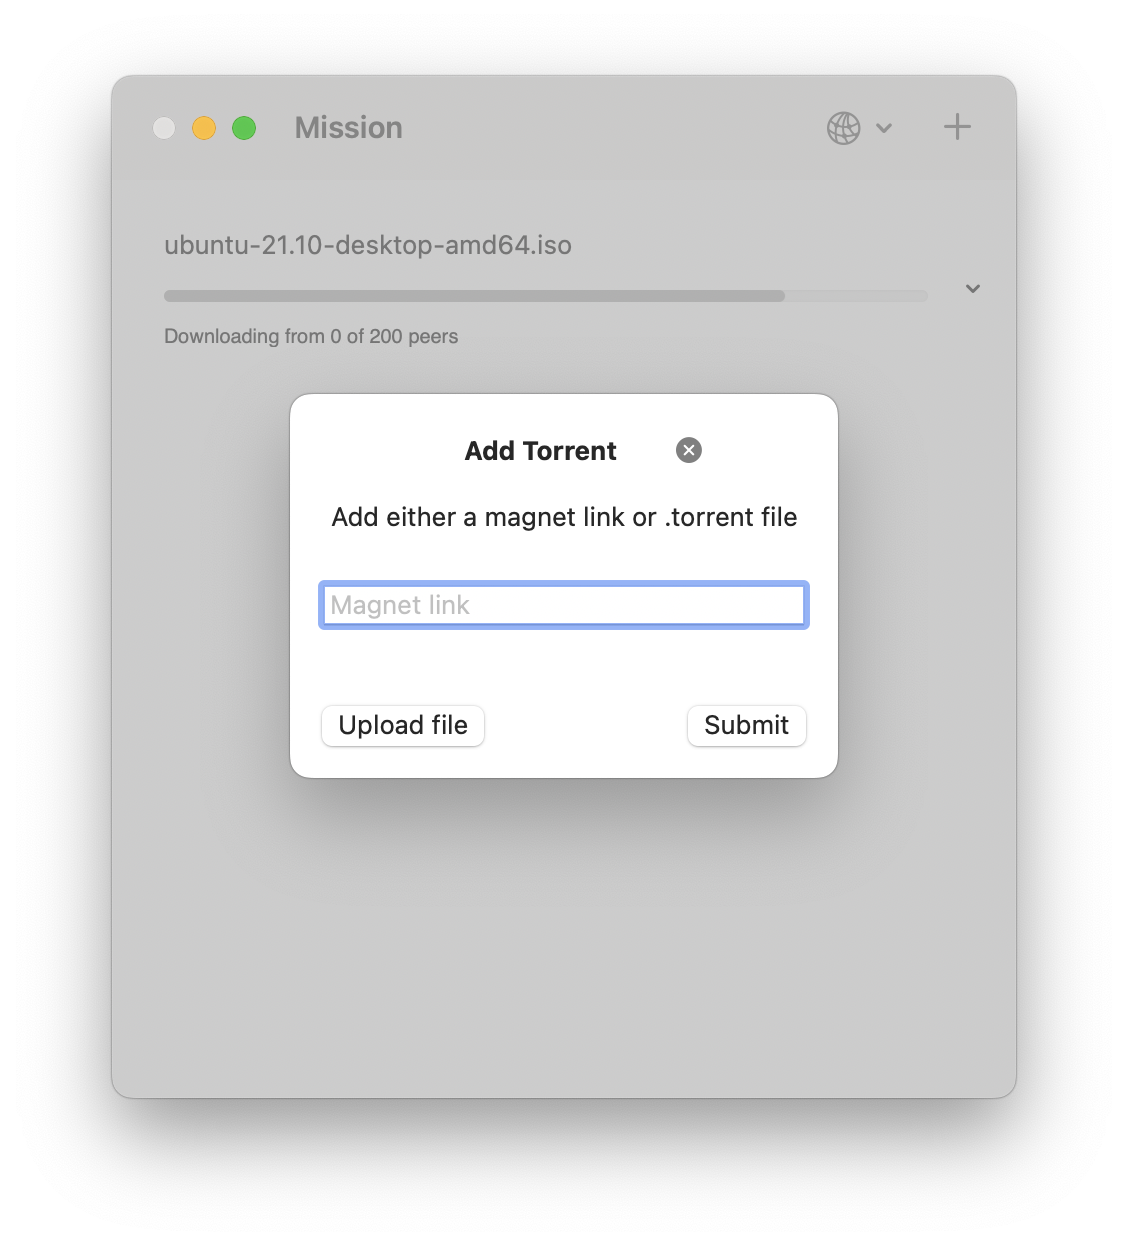
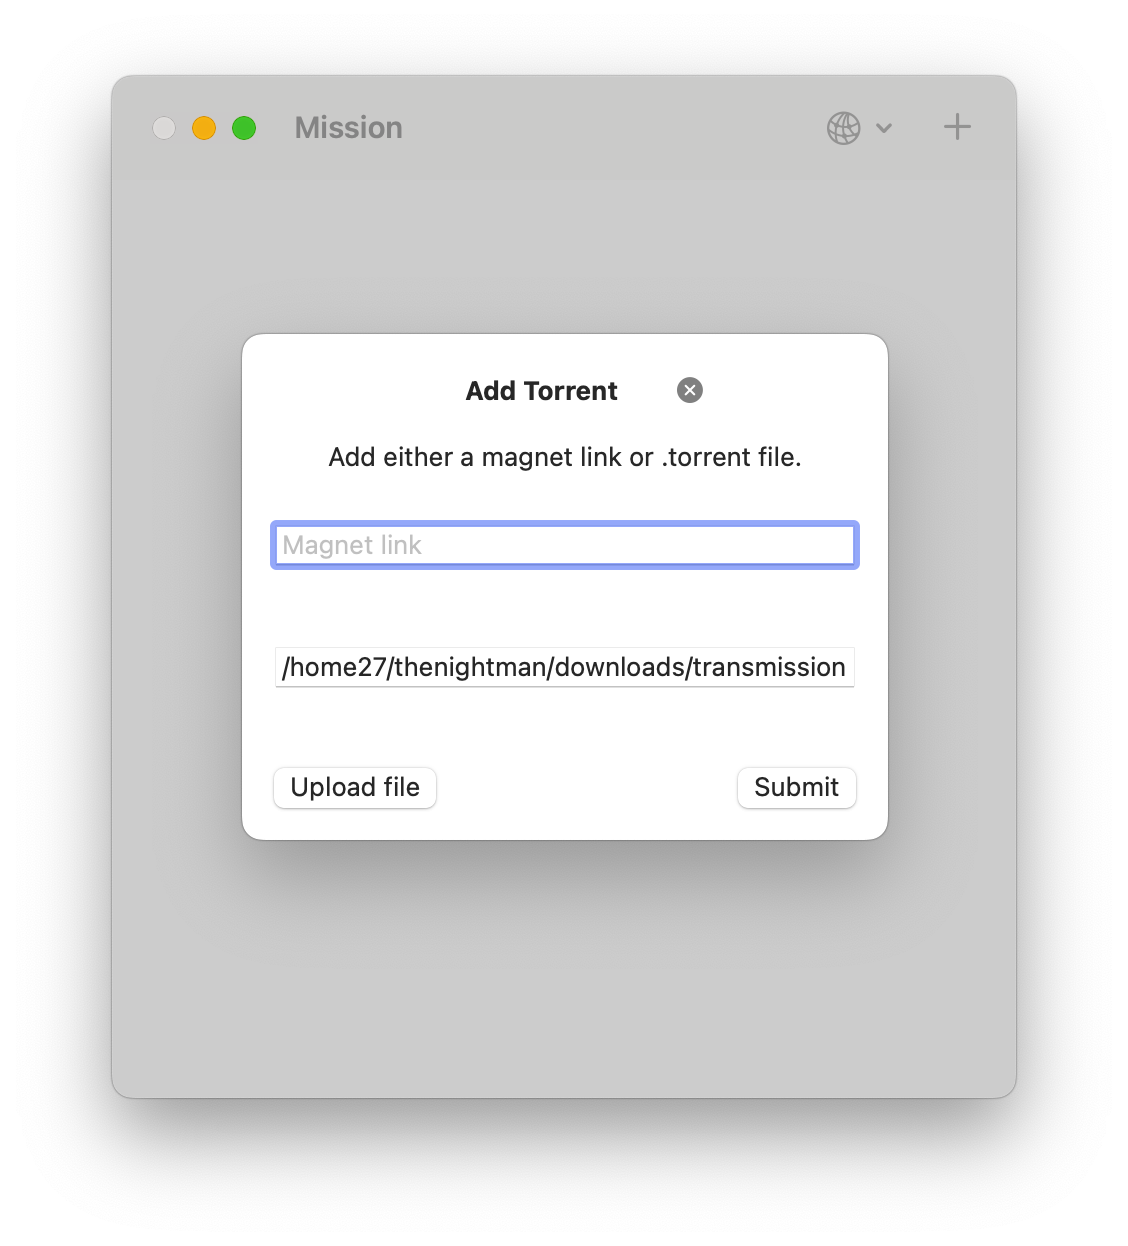
Fixes add dialog, updates screenshot and README

Changed region(s): [[0.1551, 0.183, 0.8067, 0.7014], [0.1551, 0.0915, 0.2482, 0.122]]

diff --git a/Mission/ContentView.swift b/Mission/ContentView.swift
@@ -224,7 +224,9 @@ struct ContentView: View {
                     }).buttonStyle(BorderlessButtonStyle())
                 }
                 
-                Text("Add either a magnet link or .torrent file. Enter the download directory before choosing a file")
+                Text("Add either a magnet link or .torrent file.")
+                    .fixedSize(horizontal: true, vertical: true)
+                    .frame(maxWidth: 200, alignment: .center)
                     .font(.body)
                     .padding(.leading, 20)
                     .padding(.trailing, 20)

diff --git a/README.md b/README.md
@@ -1,6 +1,8 @@
 # Mission
 
 A transmission remote client for MacOS written in pure Swift with SwiftUI
-
+<a href="https://testflight.apple.com/join/sHGIIcAw">
+<img src="https://askyourself.app/assets/testflight.png" alt="drawing" width="200"/>
+</a>
 ![Screenshot](/Screenshots/Downloading-Seeding-Scrot.png)
 ![Screenshot](/Screenshots/Add-Torrent-Scrot.png)
